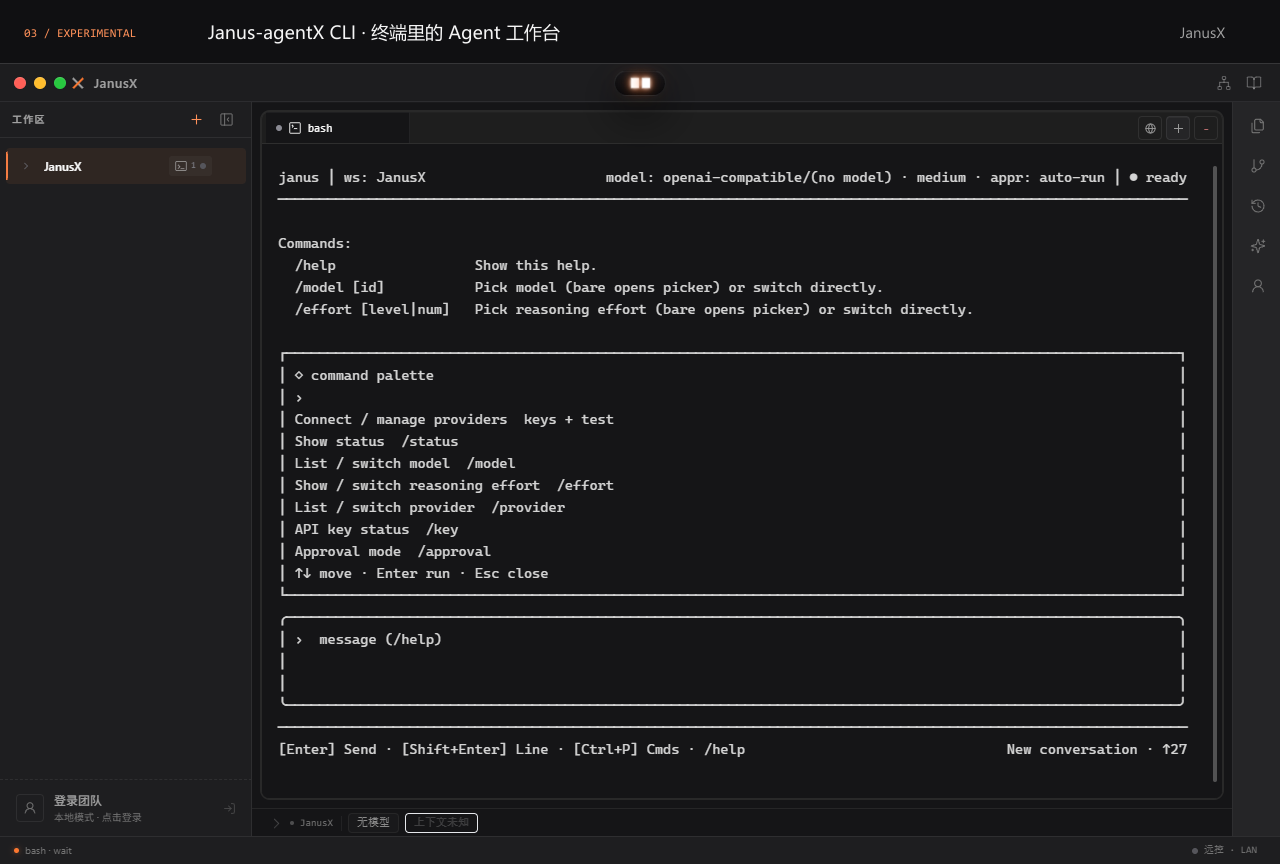
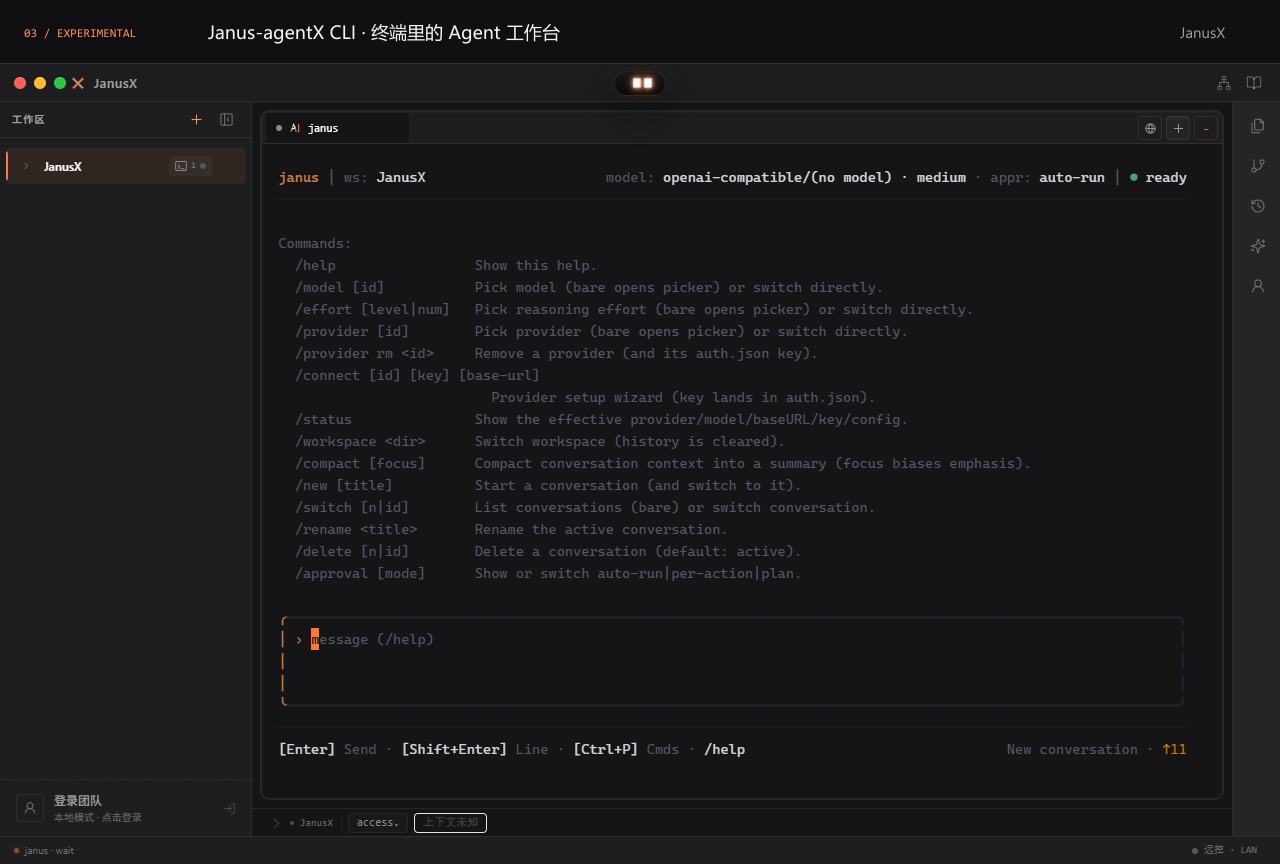
docs: record agent terminals with native colors
Note: .agents/notes/implemented/feature/2026-09-18-product-tour.md

diff --git a/.agents/notes/implemented/feature/2026-09-18-product-tour.md b/.agents/notes/implemented/feature/2026-09-18-product-tour.md
@@ -8,9 +8,11 @@ Visitors need to see the desktop workflow before downloading JanusX. A command-o
 
 ## Decision
 
-The README and download page show six recordings from the built desktop application and standalone CLI: terminal splitting, right sidebar and embedded editing, Janus CLI, roundtable preparation, blueprint browsing, and knowledge review. The recordings use a local clone of the actual repository. Blueprints and knowledge notes are manually authored from product structure and source files; the copy identifies their origin and distinguishes local preparation from model execution. Janus CLI, roundtable, blueprint and knowledge are explicitly experimental.
+The README and download page show six recordings from the built desktop application and standalone CLI: terminal splitting, right sidebar and embedded editing, Janus CLI, roundtable preparation, blueprint browsing, and knowledge review. The recordings use a local clone of the actual repository. The split recording launches the real Janus and Claude terminal presets, places Janus-agentX on the left and Claude Code on the right, and shows tab dragging and divider resizing. The sidebar recording keeps Janus-agentX visible while opening file and Git tools and embedding the file editor. Blueprints and knowledge notes are manually authored from product structure and source files; the copy identifies their origin and distinguishes local preparation from model execution. Janus CLI, roundtable, blueprint and knowledge are explicitly experimental.
 
-The recorder isolates the Electron profile, home, application-data directories and `JANUSX_KNOWLEDGE_ROOT`; userData alone does not isolate the knowledge store, which resolves its own root. It makes no model requests. Images live in `wiki/assets` on the application branch and `assets` on gh-pages, so both surfaces render without depending on the other branch's deployment. The download choices remain above the product tour. README embeds animated GIFs with static-image links; the site uses posters and explicit play/stop controls, including a static default for reduced-motion users and a no-JavaScript image link fallback.
+The recorder isolates the Electron profile, home, application-data directories and `JANUSX_KNOWLEDGE_ROOT`; userData alone does not isolate the knowledge store, which resolves its own root. Claude Code uses a temporary `CLAUDE_CONFIG_DIR` and local onboarding preferences, with no personal authentication data. Its bare mode skips OAuth and keychain reads. The recorder makes no model requests. Automation can inherit `NO_COLOR` and `TERM=dumb`, which suppress CLI colors; the recorder removes `NO_COLOR` and sets `TERM=xterm-256color`, `COLORTERM=truecolor` and `FORCE_COLOR=3` so captures retain the real terminal interface colors.
+
+Images live in `wiki/assets` on the application branch and `assets` on gh-pages, so both surfaces render without depending on the other branch's deployment. The download choices remain above the product tour. README embeds animated GIFs with static-image links; the site uses posters and explicit play/stop controls, including a static default for reduced-motion users and a no-JavaScript image link fallback.
 
 ## Alternatives considered
 
@@ -18,8 +20,8 @@ Reusing text or static screenshots alone avoids animation maintenance but cannot
 
 ## Consequences
 
-Recordings require refreshing after visible interface changes. On Windows with Node.js 24, build the desktop application and sibling janus-agentX CLI, then run `node scripts/capture-product.mjs` and `node scripts/capture-product.mjs --cli` sequentially. `--basic` and `--experiments` allow focused updates. The recorder retains raw frames under `.cache/product-recordings` and closes its Electron application.
+Recordings require refreshing after visible interface changes. On Windows with Node.js 24, build the desktop application and install Janus-agentX and Claude Code so `janus` and `claude` resolve on PATH, then run `node scripts/capture-product.mjs` and `node scripts/capture-product.mjs --cli` sequentially. `--basic` and `--experiments` allow focused updates. The recorder retains raw frames under `.cache/product-recordings` and closes its Electron application; the encoder owns the GIF and poster output.
 
-Install optional encoding tools using `npm install --prefix .cache/product-media --no-save --package-lock=false gifenc sharp`, then run `node scripts/encode-product-gifs.mjs`. The encoder produces six 1280 × 864 GIFs at four frames per second and six PNG posters, with an explanatory strip above the unmodified application capture. Measured total GIF size is approximately 1.5 MB; individual clips contain 21–39 frames. Copy these twelve assets to gh-pages with related copy changes. These media tools are not application runtime dependencies.
+Install optional encoding tools using `npm install --prefix .cache/product-media --no-save --package-lock=false gifenc sharp`, then run `node scripts/encode-product-gifs.mjs`. The encoder produces six 1280 × 864 GIFs at four frames per second and six PNG posters, with an explanatory strip above the unmodified application capture. The six GIFs total approximately 1.84 MB and contain 21–39 frames each. Assets are written to temporary files before replacement to avoid partially written output when Windows refuses to overwrite an existing image. Copy these twelve assets to gh-pages with related copy changes. These media tools are not application runtime dependencies.
 
 The README distinguishes packaged installation from source development and documents the sibling janus-agentX dependency. The desktop Janus terminal entry requires a separately installed `janus` executable. Its recording opens local `/help` before the command palette so that the fixed-height palette does not clip the empty-state banner. The site retains its existing release resolution and fallback links. Run the gh-pages `tests/download.test.cjs` with `JANUSX_PLAYWRIGHT` pointing to this repository's Playwright installation to verify release states, media failure and retry, and five viewport widths.

diff --git a/README.md b/README.md
@@ -6,9 +6,9 @@
 
 JanusX 是面向 AI 辅助开发的开源桌面工作台。在项目之间切换，让多个终端并排运行，在右侧查看文件、Git 和检查点；也可以探索 Agent CLI、多角色圆桌、项目蓝图与知识库。
 
-![终端分屏 GIF：拖动标签到右侧形成分屏，再拖动分隔线调整比例](wiki/assets/terminal-split.gif)
+![终端分屏 GIF：左侧 Janus-agentX、右侧 Claude Code，拖动标签分屏并调整比例](wiki/assets/terminal-split.gif)
 
-拖动终端标签到面板边缘即可分屏，拖动分隔线调整比例。这里一侧查看 JanusX 的真实提交记录，另一侧查看项目命令。[查看静态画面](wiki/assets/terminal-split.png)
+左侧是 Janus-agentX，右侧是 Claude Code。拖动终端标签到面板边缘即可分屏，拖动分隔线调整比例。GIF 展示两个 CLI 的真实启动界面与分屏操作，未运行模型任务。[查看静态画面](wiki/assets/terminal-split.png)
 
 [核心与基础功能](#核心与基础功能) · [创新实验功能](#创新实验功能) · [安装与开始使用](#安装与开始使用) · [从源码开发](#从源码开发)
 
@@ -18,13 +18,13 @@ JanusX 是面向 AI 辅助开发的开源桌面工作台。在项目之间切换
 
 每个项目拥有自己的工作区与终端。左侧可切换项目、拖拽排序与分组；终端支持标签切换和上下、左右分屏。把标签拖到另一面板中央可以合并回标签页，适合一边运行项目，一边执行测试或使用 AI CLI。
 
-终端入口提供 Shell、Janus、Claude、Codex、OpenCode、Pi。外部 CLI 的运行需要对应工具和登录配置，JanusX 负责把这些工作入口放进同一个桌面环境。
+终端入口提供 Shell、Janus、Claude、Codex、OpenCode、Pi。Janus-agentX、Claude Code 等 CLI 需要先安装对应工具；执行模型任务前，还需完成各自的登录或模型配置。JanusX 负责把这些工作入口放进同一个桌面环境。
 
 ### 右侧栏：常用工具随手打开
 
-![右侧栏 GIF：切换文件与 Git 面板，将项目 package.json 嵌入终端旁边阅读](wiki/assets/right-sidebar.gif)
+![右侧栏 GIF：保留 Janus-agentX，切换文件与 Git 面板，将 package.json 嵌入旁边阅读](wiki/assets/right-sidebar.gif)
 
-文件与 Git 工具可以直接切换，面板宽度可调整、可收起。双击文件打开编辑器，再嵌入主窗口，就能在终端旁查看代码。[查看静态画面](wiki/assets/right-sidebar.png)
+Janus-agentX 保留在终端中，右侧可随时切换文件与 Git 工具，面板宽度可调整、可收起。双击文件打开编辑器，再嵌入主窗口，就能在 CLI 旁查看项目代码。[查看静态画面](wiki/assets/right-sidebar.png)
 
 | 工具 | 用途 |
 | --- | --- |
